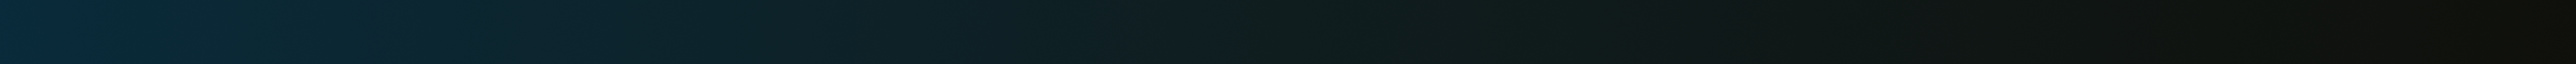
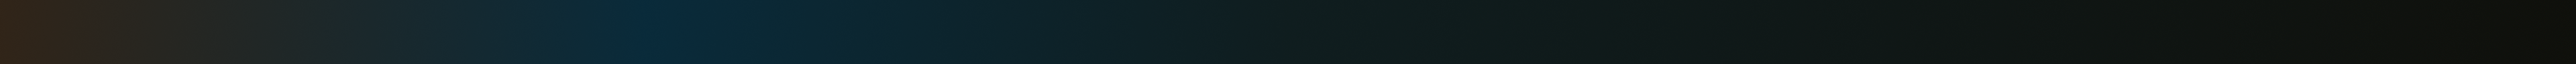
Add subtle amber warmth to left edge of Waybar gradient

Changed region(s): [[0.0, 0.0, 0.0938, 1.0]]

diff --git a/stow/waybar/.config/waybar/scripts/generate-bar-gradient.py b/stow/waybar/.config/waybar/scripts/generate-bar-gradient.py
@@ -16,16 +16,25 @@ def chunk(kind, data):
 
 def main():
     width, height = 3840, 96
-    # Match the previous CSS gradient, including its faint neutral overlay.
-    stops = ((9.5, 42.6, 58.1), (15.3, 29.0, 30.7), (15.3, 16.3, 11.6))
+    # A soft amber glow at the left fades through teal into the original dark end.
+    stops = (
+        (0.0, (48.5, 36.5, 24.5)),
+        (0.25, (9.5, 42.6, 58.1)),
+        (0.5, (15.3, 29.0, 30.7)),
+        (1.0, (15.3, 16.3, 11.6)),
+    )
     columns = []
     for x in range(width):
-        position = x / (width - 1) * 2
-        segment = min(int(position), 1)
-        fraction = position - segment
+        position = x / (width - 1)
+        segment = 0
+        while segment < len(stops) - 2 and position > stops[segment + 1][0]:
+            segment += 1
+        start, start_color = stops[segment]
+        end, end_color = stops[segment + 1]
+        fraction = (position - start) / (end - start)
         columns.append(tuple(
             a + (b - a) * fraction
-            for a, b in zip(stops[segment], stops[segment + 1])
+            for a, b in zip(start_color, end_color)
         ))
 
     rng = random.Random(17)

diff --git a/README.md b/README.md
@@ -42,7 +42,7 @@ Copy the border/rounding settings from `stow/hypr/.config/hypr/hyprland.lua` int
 | Component | Details |
 | --- | --- |
 | Waybar | 15px outer margins, 3px corners, centered window title, player on the right, Monday-first calendar with ISO week numbers |
-| Bar background | Dithered teal-to-dark gradient; PNG is included so it works without regeneration |
+| Bar background | Dithered amber-to-teal-to-dark gradient; PNG is included so it works without regeneration |
 | Controls | Matching Rofi application launcher, player, Wi-Fi, Bluetooth, and confirmed power actions |
 | Hyprland | Orange active border, dim inactive border, 15px outer gaps, 5px inner gaps, 3px rounding, shared keybindings and animations |
 | Notifications / lock | Matching Dunst notification styling and Hyprlock screen; existing PAM authentication defaults |
